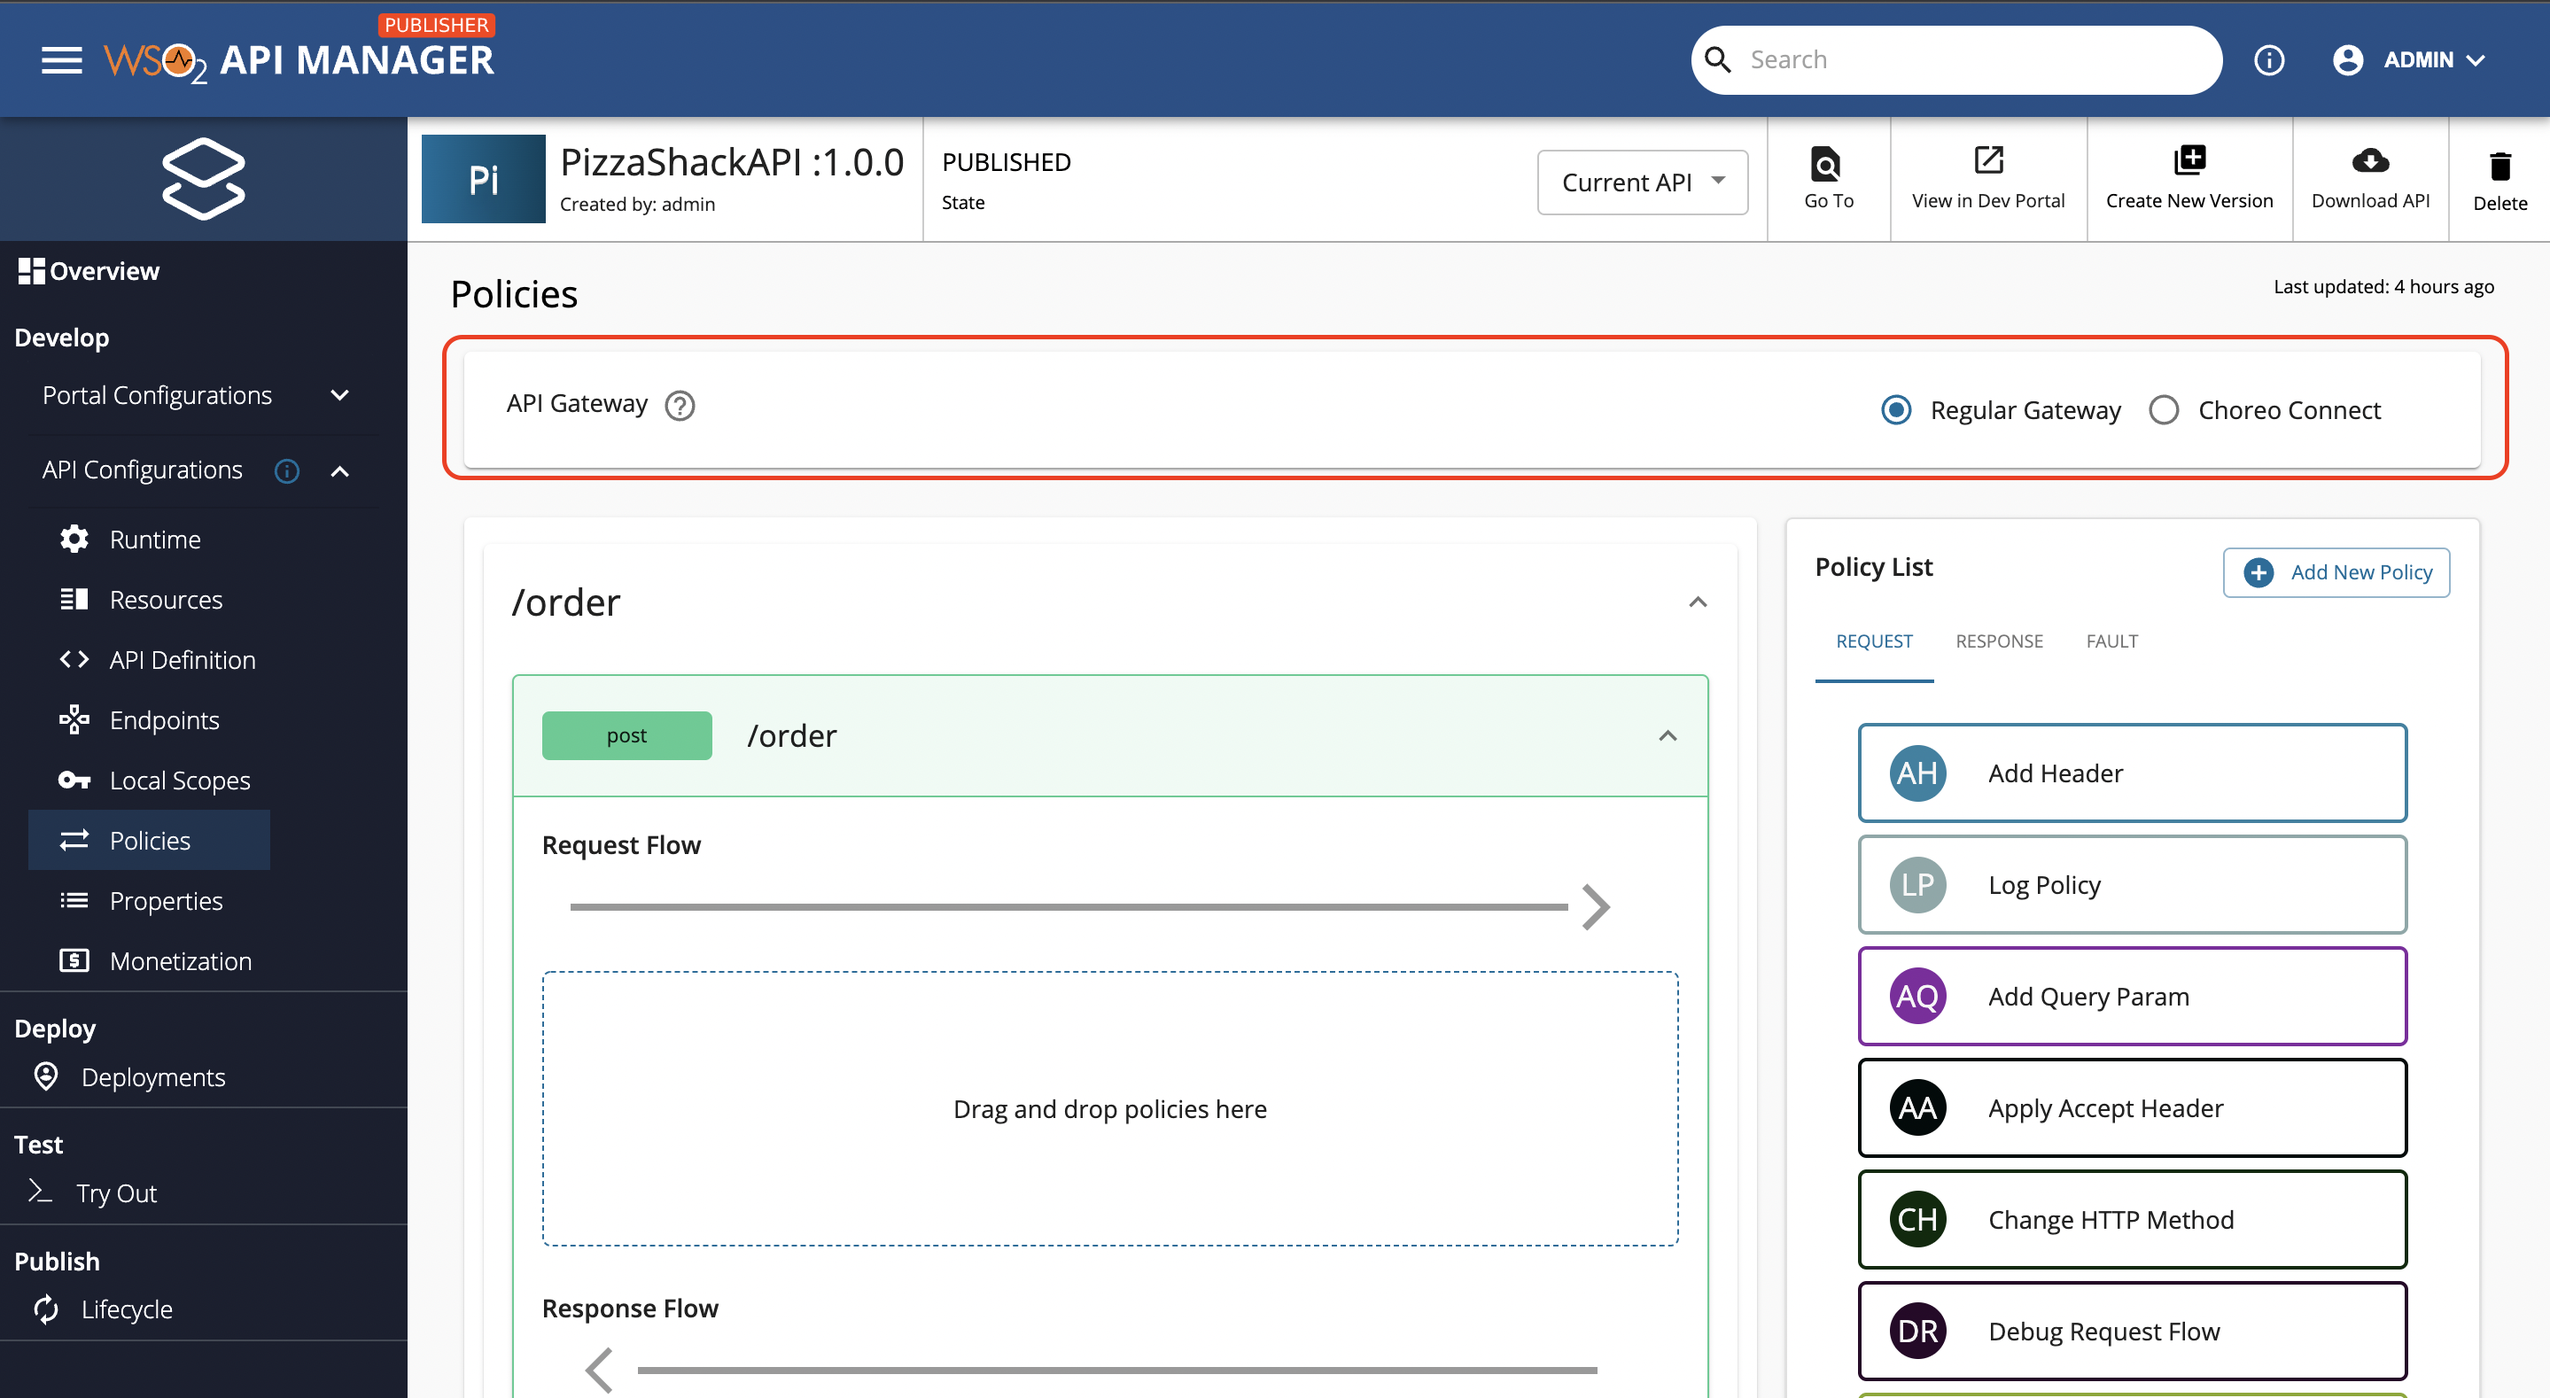
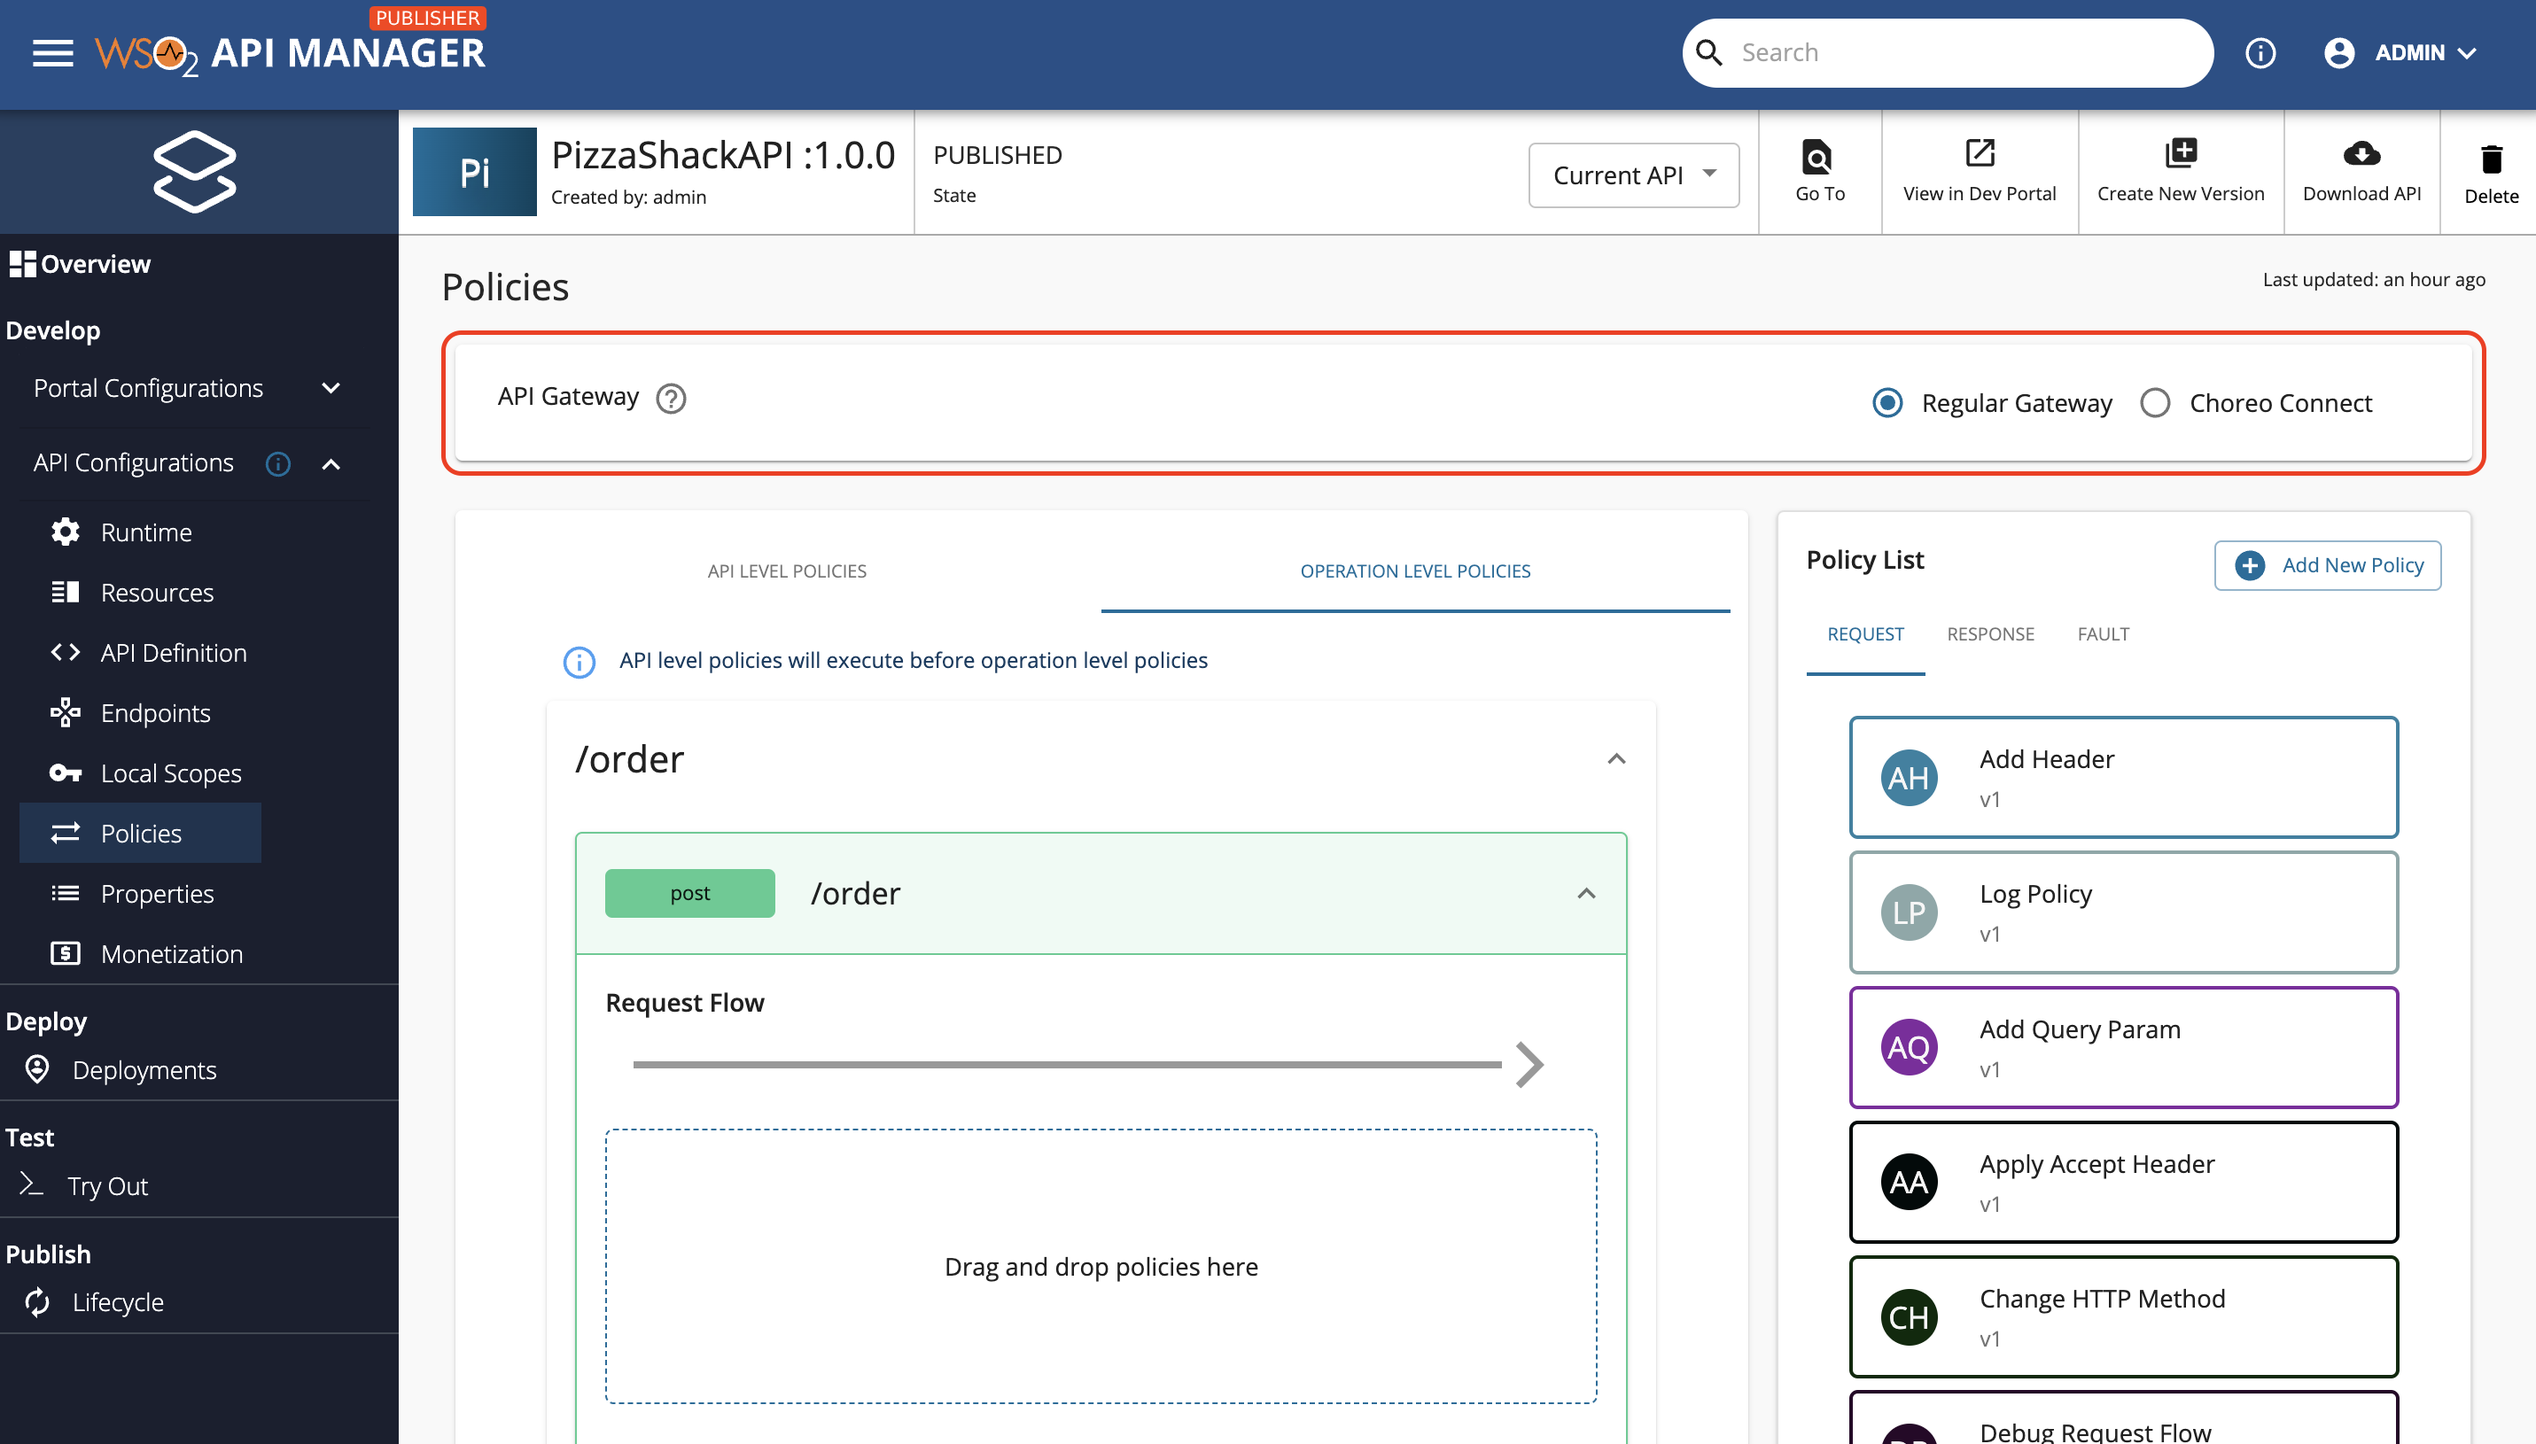
Modify API policy related docs with API level policy support details

diff --git a/en/docs/design/api-policies/attach-policy.md b/en/docs/design/api-policies/attach-policy.md
@@ -1,6 +1,6 @@
 # Attaching Policies
 
-Follow the instructions below to attach one or more default policies that are shipped with WSO2 API Manager to an API operation(s) of an existing API.
+Follow the instructions below to attach one or more default policies that are shipped with WSO2 API Manager to an existing API.
 
 1. Sign in to the WSO2 API Publisher.
 
@@ -8,7 +8,7 @@ Follow the instructions below to attach one or more default policies that are sh
 
 2. Click on the API for which you want to attach policies to (e.g., `PizzaShackAPI 1.0.0`). Navigate to **API Configurations** --> **Policies**.
 
-3. Under the `API Gateway` section, make sure to select the correct Gateway. API Manager supports the following two Gateway types: `Regular Gateway (Synapse Gateway)` and `Choreo Connect`. Select the Gateway depending on the Gateway that your API is deployed in.
+3. Select the appropriate `API Gateway` based on the Gateway that your API is deployed in. Note that API Manager supports the following two Gateway types: `Regular Gateway (Synapse Gateway)` and `Choreo Connect`.
 
     [![Select Gateway]({{base_path}}/assets/img/design/api-policies/attach-policies-1.png){: style="width:90%"}]({{base_path}}/assets/img/design/api-policies/attach-policies-1.png)
 
@@ -18,7 +18,7 @@ Follow the instructions below to attach one or more default policies that are sh
     !!! tip
         * The policy list is dependant on the selected Gateway (i.e. policy list under `Regular Gateway` is different to that of `Choreo Connect`).
         
-        * Given below is the key difference between the two types.
+        * Given below is the key difference between the two types apart from the actual policy logic.
 
         | Gateway         | Supported Flows         |
         |-----------------|-------------------------|
@@ -27,13 +27,20 @@ Follow the instructions below to attach one or more default policies that are sh
 
         * Choreo Connect supports policies at **Operation level** 1.2.0 version onwards, while the older version Choreo Connect 1.1.0 only supports policies at resource level.
 
-4. Pick out the desired operation and flow to which you want to attach policies. Once that is decided, you can expand that API operation. At this point you will notice that by default the UI will open up the first API operation on initial page visit (for PizzaShack API, `/order POST` is expanded by default).
+4. First let us consider the **API Level Policies** tab. You can attach any number of policies by dragging and dropping from the policy list to the dropzone appearing under the desired flow (i.e. request, response or fault). Since these policies are attached to the API level, upon API invocation these policies are engaged regardless of the resource that was invoked. 
 
-5.  Let’s attach a policy to the `/menu GET` operation. Scroll down through the left side column of the UI and click on `/menu GET` API operation. You should be able to see the below screen when the API operation is expanded.
+    !!! note
+        API level policies will execute before operation level policies
+
+    [![Adding API level policies]({{base_path}}/assets/img/design/api-policies/attach-api-level-policies.png){: style="width:90%"}]({{base_path}}/assets/img/design/api-policies/attach-api-level-policies.png)
+
+5. Now let us consider the **Operation Level Policies** tab. Pick out the desired operation and flow to which you want to attach policies. Once that is decided, you can expand that API operation. At this point you will notice that by default the UI will open up the first API operation on initial page visit (for PizzaShack API, `/order POST` is expanded by default).
+
+6.  Let’s attach a policy to the `/menu GET` operation. Scroll down through the left side column of the UI and click on `/menu GET` API operation. You should be able to see the below screen when the API operation is expanded.
 
     [![Operation for adding policies]({{base_path}}/assets/img/design/api-policies/attach-policies-2.png){: style="width:90%"}]({{base_path}}/assets/img/design/api-policies/attach-policies-2.png)
 
-6. Drag the **Add Header** policy from the **Request** tab of the **Policy List** and drop that to the **Request Flow** dropzone of `/menu GET` operation. You will notice a side panel appearing from the right hand side. Fill the required details using the values provided below. Then, click **Save**.
+7. Drag the **Add Header** policy from the **Request** tab of the **Policy List** and drop that to the **Request Flow** dropzone of `/menu GET` operation. You will notice a side panel appearing from the right hand side. Fill the required details using the values provided below. Then, click **Save**.
 
     <table>
         <tr>
@@ -51,17 +58,17 @@ Follow the instructions below to attach one or more default policies that are sh
     </table>
 
     !!! note 
-        You can optionally use the **Apply to all** resources option to attach the same policy to all the resources when you save your settings. This will attach the same policy to all the API operations along with the values you entered to configure the policy (if any). It is important to note that if the policy was applied to the `Request Flow`, it will only be applied to all the `Request Flows` of all operations.
+        You can optionally use the **Apply to all** resources option to attach the same policy to all the resources. This will attach the same policy to all the API operations along with the values you entered to configure the policy (if any). It is important to note that if the policy was applied to the `Request Flow`, it will only be applied to all the request flows of all operations.
 
-7. Now that we have saved the dropped policy, you should be able to see the attached **Add Header** policy (depicted with the initials `AH`).
+8. Now that we have saved the dropped policy, you should be able to see the attached **Add Header** policy (depicted with the initials `AH`).
 
     [![API Header policy]({{base_path}}/assets/img/design/api-policies/attach-policies-3.png){: style="width:90%"}]({{base_path}}/assets/img/design/api-policies/attach-policies-3.png)
 
-8. If you click on this newly attached **AH** (i.e. Add Header) policy, you should still be able to view/edit values that you entered initially.
+9. If you click on this newly attached **AH** (i.e. Add Header) policy, you should still be able to view/edit values that you entered initially.
 
     [![API Header policy]({{base_path}}/assets/img/design/api-policies/attach-policies-4.png){: style="width:90%"}]({{base_path}}/assets/img/design/api-policies/attach-policies-4.png)
 
-9. Let’s go ahead and attach a few more policies to the same **Request Flow**. Pick any amount of policies from the **Request** tab of the **Policy List**.
+10. Let’s go ahead and attach a few more policies to the same **Request Flow**. Pick any amount of policies from the **Request** tab of the **Policy List**.
 
     [![Attach policies]({{base_path}}/assets/img/design/api-policies/attach-policies-5.png){: style="width:90%"}]({{base_path}}/assets/img/design/api-policies/attach-policies-5.png)
 
@@ -72,10 +79,10 @@ Follow the instructions below to attach one or more default policies that are sh
 
         * If you click on the delete icon, the dropped policy is cancelled
 
-10. Finally, when you are satisfied with the dragged and dropped policies, you can go ahead and click on the **Save** button at the bottom of the page. Note that if you do not click on save, none of the dropped policies will be saved to the API.
+11. Finally, when you are satisfied with the dragged and dropped policies, you can go ahead and click on the **Save** button at the bottom of the page. Note that if you do not click on save, none of the dropped policies will be saved to the API.
 
     [![Attach policies]({{base_path}}/assets/img/design/api-policies/save-attached-policies.png){: style="width:90%"}]({{base_path}}/assets/img/design/api-policies/save-attached-policies.png)
 
-Once you drag and drop a default policy (Common policy that can be added to all the APIs) and save, to maintain the consistency of API object, the attached policy will be revisioned specific to the API. 
+Once you drag and drop a default policy (Common policy that is accessible to all APIs) and save, to maintain the consistency of API object, the attached policy will be revisioned specific to the API. 
 In case you delete the Common Policy from the publisher portal from the policies tab, this revision will be preserved as an API specific policy and once the policy is detached from the API, this revision will be cleared from the data storage.
 If you have created a different policy with the same name after deleting the original policy, you have to detach and reattach the policy to the resources if you need to apply the new policy.

diff --git a/en/docs/design/api-policies/overview.md b/en/docs/design/api-policies/overview.md
@@ -2,17 +2,17 @@
 
 Policies generally enforce some business logic that needs to be executed on the `Request`, `Response`, or `Fault` flow of an API invocation. A policy is a collection of rules that will be executed at the API Gateway. Using policies we can make API invocations undergo slight behavioural modifications before reaching the backend. In a similar manner, we can modify the API response a client recieves.
 
-Policy is dependent on the API Gateway that you have configured with WSO2 API Manager. The operation level policy support feature supports the following two Gateway types:
+Policy is dependent on the API Gateway that you have configured with WSO2 API Manager. The API Policy feature supports the following two Gateway types:
 
-* **Regular Gateway (Synapse Gateway)**
+- **Regular Gateway (Synapse Gateway)**
 
-* **Choreo Connect**
+- **Choreo Connect**
 
-API Manager ships a default set of policies that cover most of the common use cases that you will need, while also giving you the ability to create your own. Note that the common policy list is more robust when compared with previous API Manager versions. There are three main flows under each API operation that you can utilize to attach any policy that you need. Namely, `Request Flow`, `Response Flow` and `Fault Flow`. You can also attach multiple policies under each of these flows, and are free to swap and rearrange the attached policies.
+API Manager ships a default set of policies that cover most of the common use cases that you will need, while also giving you the ability to create your own. Note that the common policy list is more robust when compared with previous API Manager versions. There are three main flows that you can utilize to attach any policy that you need. Namely, `Request Flow`, `Response Flow` and `Fault Flow`. You can also attach multiple policies under each of these flows, and are free to swap and rearrange the attached policies.
 
-To recollect the aforementioned points, this improved feature gives much more flexibility for your policy management requirements. Note the following architectural changes brought about by this feature:
+Note the following architectural changes brought about by this feature:
 
-* Concept of attaching a single policy to a particular flow (i.e. request, response or fault) at the API level was a bottleneck with the previous versions of WSO2 API Manager.
-* With the new and improved feature, we can attach multiple policies at an operation level as opposed to just attaching a single policy for the whole API.
-* We can manipulate the order in which the attached policies engage with the configured API gateway. The order in which you have arranged the policies is guaranteed to be honored by the gateway.
-* You can easily expect dynamic inputs for policy attributes as opposed to static policies that were supported through the deprecated mediation policies feature.
+- Concept of attaching a single policy to a particular flow (i.e. request, response or fault) at the API level was a bottleneck with the previous versions of WSO2 API Manager.
+- With the new and improved feature, we can attach multiple policies either at **API Level** or **Operation Level** as opposed to just attaching a single policy for the whole API.
+- We can manipulate the order in which the attached policies engage with the configured API gateway. The order in which you have arranged the policies is guaranteed to be honored by the gateway.
+- You can easily expect dynamic inputs for policy attributes as opposed to static policies that were supported through the deprecated mediation policies feature.
